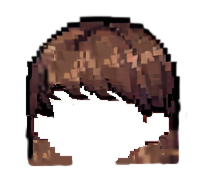
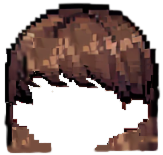
[CHORE] 옷장 요소 크기 및 위치 조정

diff --git a/css/DressUp.css b/css/DressUp.css
@@ -40,6 +40,14 @@ h1 {
   max-width: 1200px;
   height: 100%;
   box-sizing: border-box;
+  margin-left: -10vw;
+}
+
+.left-panel img {
+  transform: scale(1.6);
+}
+.left-panel img:hover {
+  transform: scale(1.8);
 }
 
 .right-panel {
@@ -50,6 +58,7 @@ h1 {
   justify-content: center;
   min-width: 400px;
   height: 100%;
+  margin-left: -10vw;
 }
 
 .container {
@@ -85,104 +94,85 @@ h1 {
 }
 
 /* 의상 위치 스타일 */
-.clothes.dropped.hair1 {
-  top: 3%;
-  left: 52%;
-  z-index: 3;
-}
-.clothes.dropped.hair2 {
-  top: -6%;
-  left: 53%;
-  z-index: 3;
-}
+.clothes.dropped.hair1,
+.clothes.dropped.hair2,
 .clothes.dropped.hair3 {
-  top: 3.2%;
+  top: 6%;
   left: 52%;
   z-index: 3;
 }
 .clothes.dropped.shirt1 {
-  top: 36%;
-  left: 52%;
+  top: 41%;
+  left: 52.5%;
   z-index: 2;
 }
 .clothes.dropped.shirt2 {
   top: 34%;
-  left: 52%;
+  left: 30%;
   z-index: 2;
+  transform: scale(0.92);
 }
 .clothes.dropped.shirt3 {
-  top: 36%;
-  left: 51%;
+  top: 39%;
+  left: 49%;
   z-index: 2;
 }
 .clothes.dropped.shirt4 {
-  top: 37%;
-  left: 51%;
+  top: 39%;
+  left: 50%;
   z-index: 2;
 }
 .clothes.dropped.pants1 {
-  top: 58%;
-  left: 50%;
-  z-index: 1;
-}
-.clothes.dropped.pants2 {
-  top: 47%;
+  top: 60%;
   left: 51%;
   z-index: 1;
 }
-.clothes.dropped.pants3 {
-  top: 59%;
-  left: 52%;
-  z-index: 1;
-}
+.clothes.dropped.pants2,
+.clothes.dropped.pants3,
 .clothes.dropped.pants4 {
-  top: 50%;
-  left: 52%;
+  top: 61%;
+  left: 53%;
   z-index: 1;
 }
 .clothes.dropped.accessary1 {
-  top: 21%;
+  top: 26%;
   left: 50%;
   z-index: 4;
 }
 .clothes.dropped.accessary2 {
-  top: 17%;
+  top: 19%;
   left: 49%;
   z-index: 4;
 }
 .clothes.dropped.accessary3 {
-  top: 48%;
-  left: 35%;
+  top: 64%;
+  left: 64%;
   z-index: 4;
 }
-.clothes.dropped.accessary4 {
-  top: 37%;
-  left: 52%;
-  z-index: 4;
-}
+.clothes.dropped.accessary4,
 .clothes.dropped.accessary5 {
-  top: 40%;
+  top: 42%;
   left: 51%;
   z-index: 4;
 }
 .clothes.dropped.shoes1 {
-  top: 90%;
-  left: 51%;
+  top: 92%;
+  left: 50%;
   z-index: 4;
 }
 .clothes.dropped.shoes2 {
-  top: 95%;
-  left: 50.7%;
+  top: 97%;
+  left: 50%;
   z-index: 4;
 }
 .clothes.dropped.shoes3 {
-  top: 78%;
+  top: 97%;
   left: 51%;
   z-index: 4;
 }
 .clothes.dropped.shoes4 {
-  top: 90%;
-  left: 52%;
+  top: 95%;
+  left: 50%;
   z-index: 4;
 }
 
@@ -210,11 +200,11 @@ h1 {
   height: 7%;
   display: flex;
   flex-wrap: wrap;
-  gap: 93px;
+  gap: 110px;
   justify-content: center;
   align-items: center;
-  top: 29%;
-  left: 22%;
+  top: 17%;
+  left: 28%;
   z-index: 1;
 }
 
@@ -224,11 +214,11 @@ h1 {
   height: 8%;
   display: flex;
   flex-wrap: wrap;
-  gap: 71px;
+  gap: 75px;
   justify-content: center;
   align-items: center;
-  top: 37%;
-  left: 12%;
+  top: 35%;
+  left: 18%;
   z-index: 1;
 }
 
@@ -241,9 +231,15 @@ h1 {
   gap: 75px;
   justify-content: center;
   align-items: center;
-  top: 45%;
-  left: 12%;
+  top: 50%;
+  left: 18%;
   z-index: 1;
+}
+.pants-section img {
+  transform: scale(1.1);
+}
+.pants-section img:hover {
+  transform: scale(1.3);
 }
 
 .accessary-section {
@@ -252,12 +248,18 @@ h1 {
   height: 7%;
   display: flex;
   flex-wrap: wrap;
-  gap: 39px;
+  gap: 65px;
   justify-content: center;
   align-items: center;
-  top: 54%;
-  left: 17%;
+  top: 68%;
+  left: 23%;
   z-index: 1;
+}
+.accessary-section img:nth-child(3) {
+  transform: scale(2);
+}
+.accessary-section img:nth-child(3):hover {
+  transform: scale(2.3);
 }
 
 .shoes-section {
@@ -266,11 +268,11 @@ h1 {
   height: 0%;
   display: flex;
   flex-wrap: wrap;
-  gap: 71px;
+  gap: 75px;
   justify-content: center;
   align-items: center;
-  top: 64%;
-  left: 7%;
+  top: 84%;
+  left: 10%;
   z-index: 1;
 }
 
